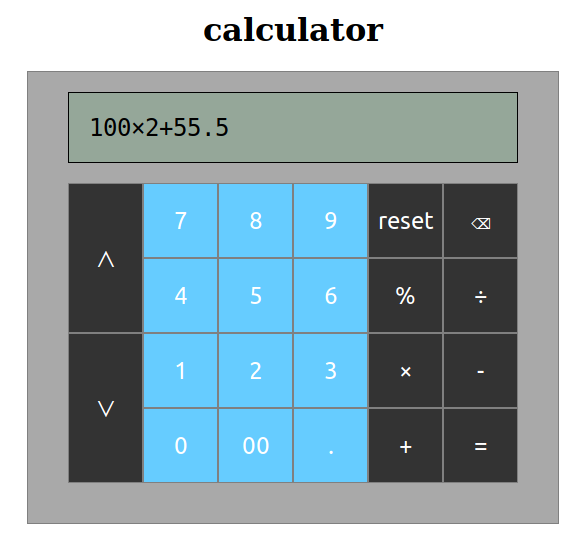
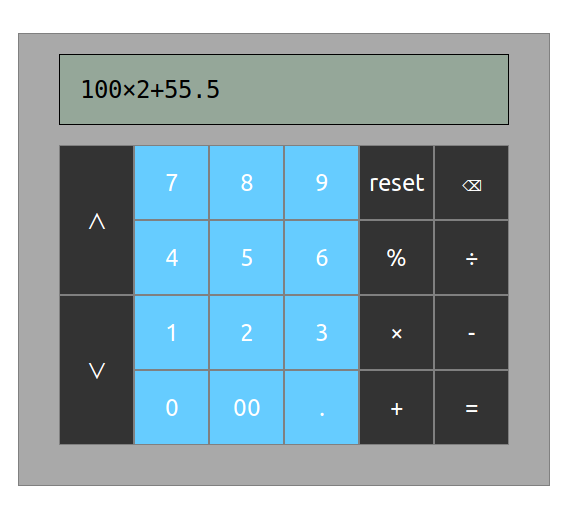
removed redundant title and updated screenshots

Changed region(s): [[0.0301, 0.0312, 0.9947, 0.9669], [0.8138, 0.7797, 0.844, 0.8109], [0.6933, 0.7797, 0.7234, 0.8109]]

diff --git a/index.html b/index.html
@@ -6,7 +6,6 @@
     <link rel="stylesheet" href="css/style.css" type="text/css" media="screen" />
   </head>
   <body>
-    <h1 id='title'>calculator</h1>
     <div id="content">
       <div id='calcbody'>
 	<div class="display">

diff --git a/css/style.css b/css/style.css
@@ -9,6 +9,7 @@ body {
 }
 
 #content {
+    margin-top: 5vh;
     display:flex;
     flex-direction:column;
     align-items:center;
